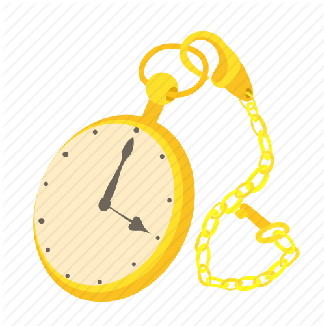
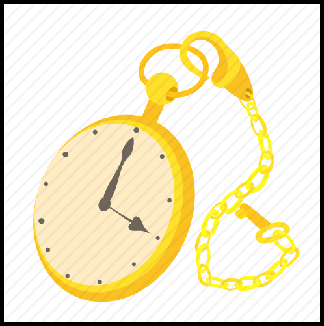
Added black borders to all cards

Changed region(s): [[0.0, 0.0, 1.0, 1.0]]

diff --git a/Docs/GameDesignDocument.md b/Docs/GameDesignDocument.md
@@ -242,7 +242,7 @@ At any time, only ONE red card can be active for each player. This means a playe
 
 >Red and Blue cards interactions
 
-The "Isn't it time?" card, "Did you say ice?" card and the first phase of the "Who wants pie?" card are TIME FREEZING effects. This means that they "pause" the effect of the enemy's blue cards, if any are in effect when the red card is played. As for the rest, pie jam and jelly do not stop time, and thus work alongside any enemy blue card, effectively slowing them down. They are meant to be good counters to big combos, by, for example, making the opponent waste their precious 5 seconds of score boost.
+The "Isn't it time?" card, "Did you say ice?" card and the first phase of the "Who wants pie?" card - the one when the opponent needs to swipe the cream away - are TIME FREEZING effects. This means that they "pause" the effect of the enemy's blue cards, if any are in effect when the red card is played. As for the rest, pie cream and jelly do not stop time, and thus work alongside any enemy blue card, effectively slowing them down. They are meant to be good counters to big combos, by, for example, making the opponent waste their precious 5 seconds of score boost.
 
 ###### Coins
 After every PvP match, the player will be granted coins: 15 if they win, 5 if they lose. Coins can be gained either this way or through spending real money. They can only be "lost" by buying packs. Cards can be either common or rare.
